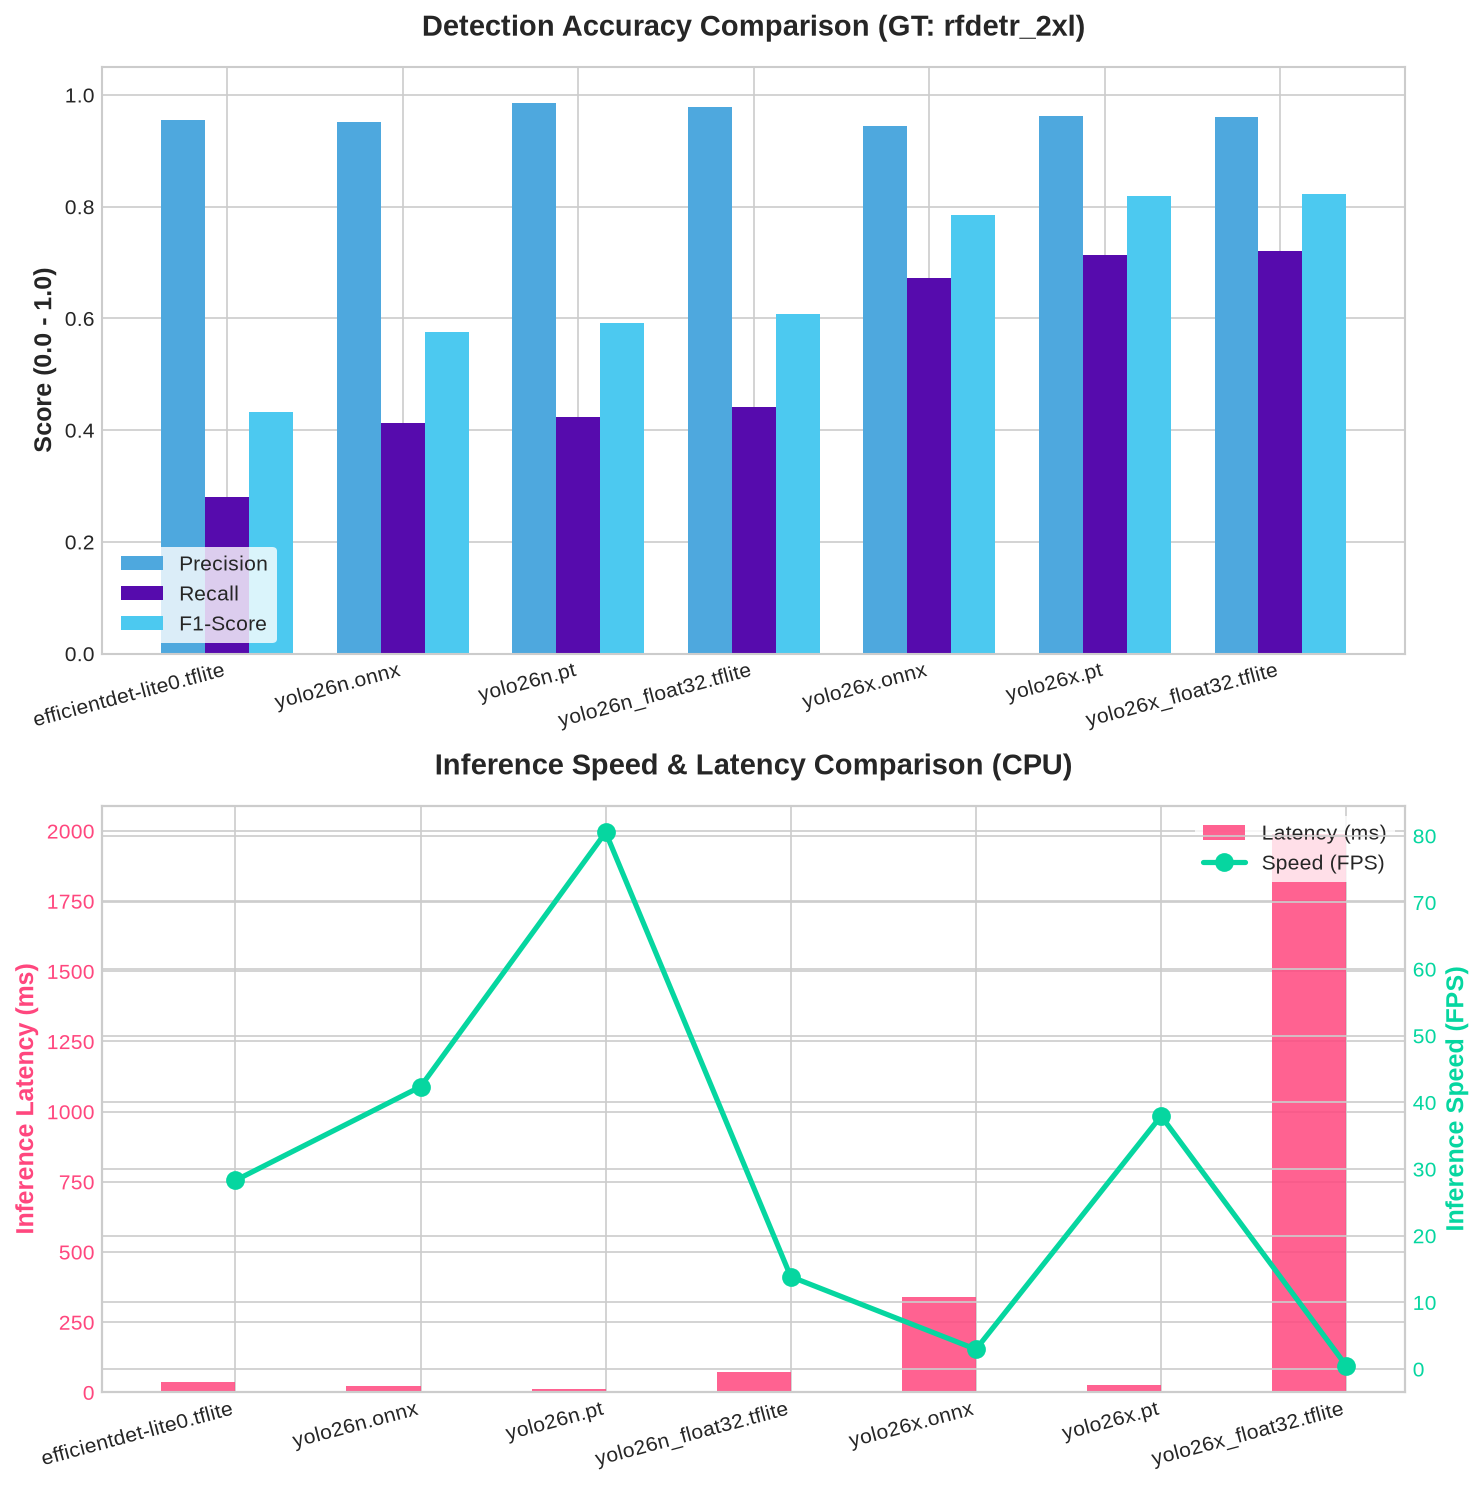
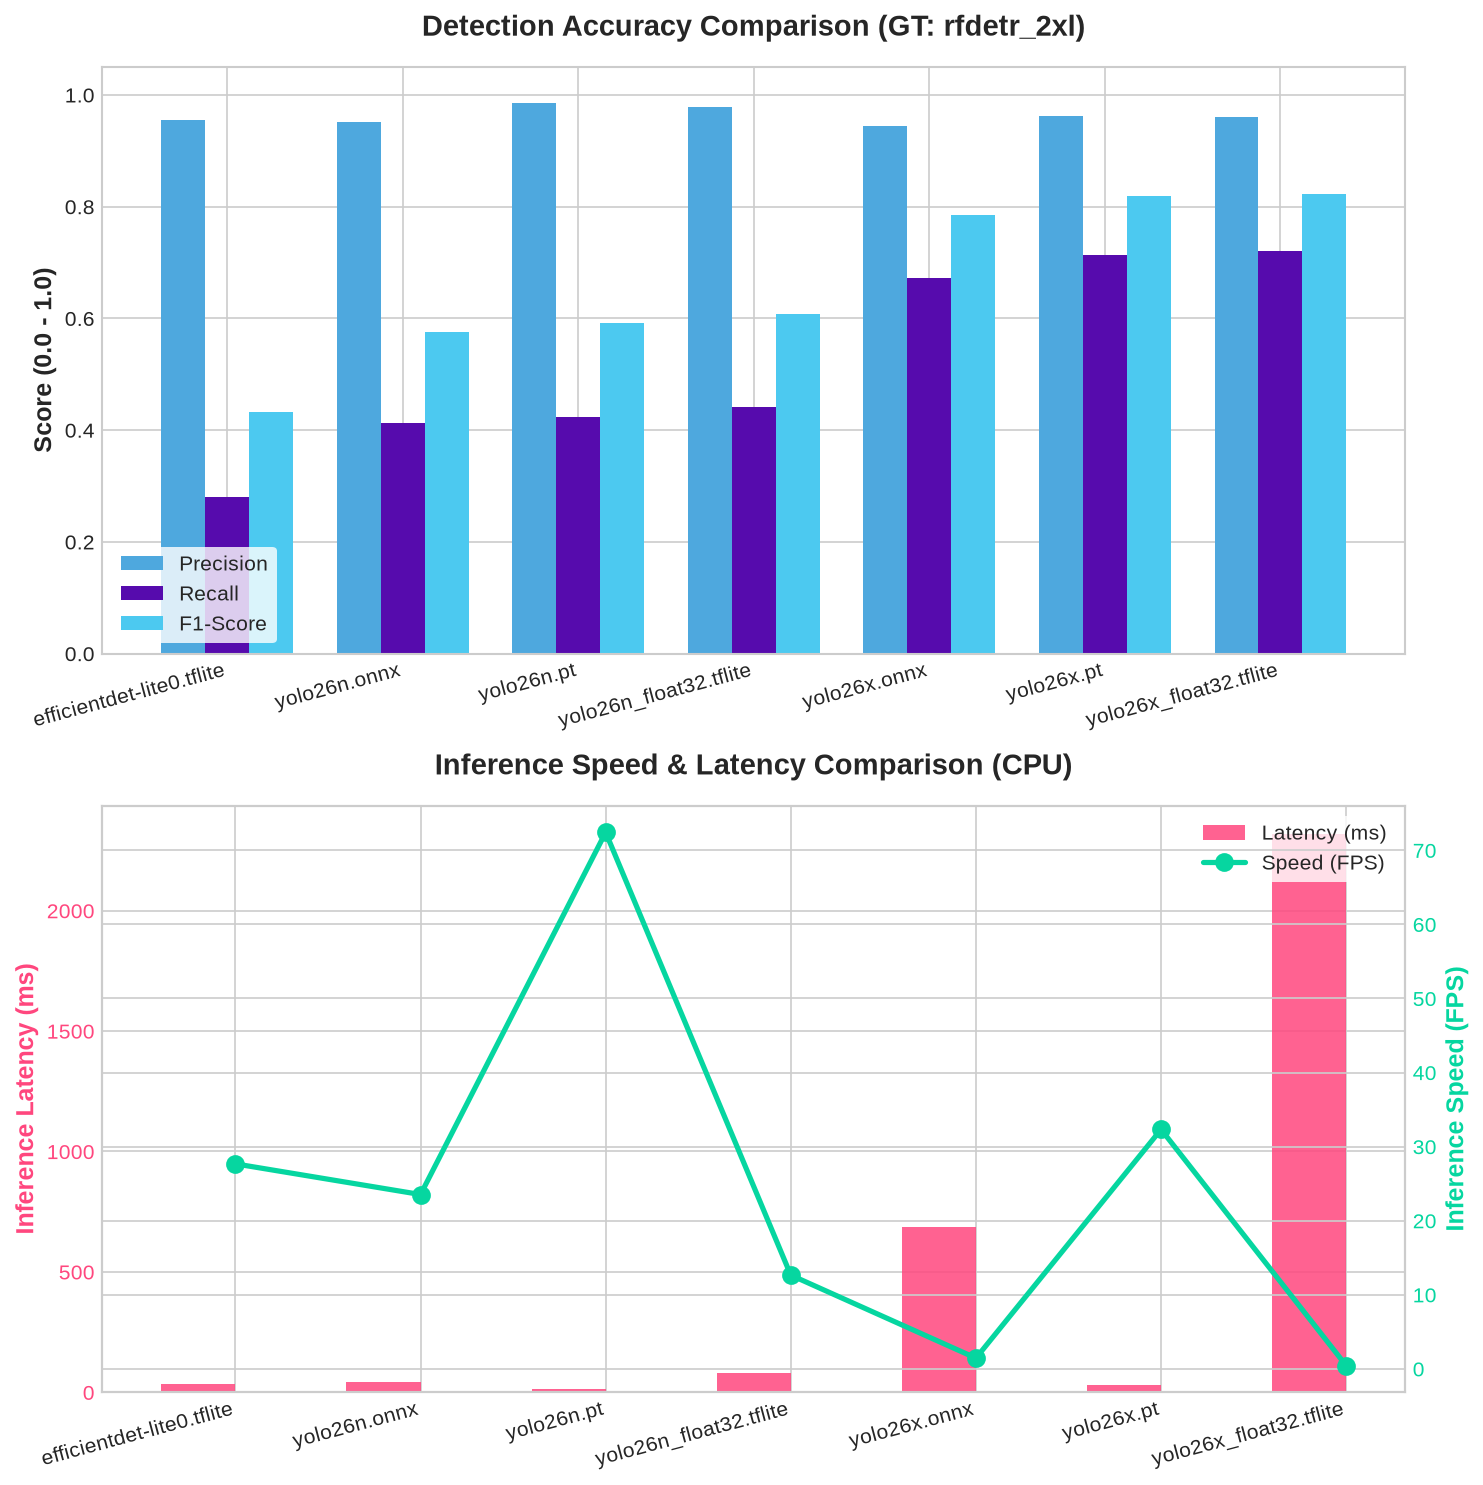
Add reference model (RF-DETR) latency to benchmark results

diff --git a/tools/benchmark.py b/tools/benchmark.py
@@ -349,7 +349,8 @@ def main():
     # ── Process video ─────────────────────────────────────────────────
     import time
     inference_times = []
-    
+    ref_inference_times = []
+
     cap = cv2.VideoCapture(args.video)
     fps = cap.get(cv2.CAP_PROP_FPS)
     total_frames = int(cap.get(cv2.CAP_PROP_FRAME_COUNT))
@@ -381,12 +382,14 @@ def main():
             online_dets = run_mediapipe(frame_rgb, online_detector, timestamp_ms)
         inference_times.append(time.perf_counter() - t0)
 
+        t_ref0 = time.perf_counter()
         if is_rfdetr_ref:
             gt_dets = run_rfdetr(frame_bgr, ref_model, conf=args.score)
         elif is_onnx_ref:
             gt_dets = run_onnx(frame_bgr, ref_model, conf=args.score)
         else:
             gt_dets = run_yolo(frame_bgr, ref_model, conf=args.score)
+        ref_inference_times.append(time.perf_counter() - t_ref0)
 
         m = match_frame(online_dets, gt_dets, args.iou)
         total_tp += m.tp
@@ -414,6 +417,9 @@ def main():
     mean_latency_ms = mean_latency * 1000
     throughput_fps = 1.0 / mean_latency if mean_latency > 0 else 0
 
+    mean_ref_latency = np.mean(ref_inference_times) if ref_inference_times else 0
+    mean_ref_latency_ms = mean_ref_latency * 1000
+
     print()
     print("═══════════════════════════════════════")
     print("  Offline Detector Benchmark Report")
@@ -432,6 +438,7 @@ def main():
     print(f"  Recall:           {recall:.4f}")
     print(f"  F1-Score:         {f1:.4f}")
     print(f"  Avg Latency:      {mean_latency_ms:.2f} ms")
+    print(f"  Ref Latency:      {mean_ref_latency_ms:.2f} ms")
     print(f"  FPS:              {throughput_fps:.2f}")
     print("═══════════════════════════════════════")
 

diff --git a/tools/run_all_benchmarks.py b/tools/run_all_benchmarks.py
@@ -39,6 +39,7 @@ def run_benchmark(video_path, model_path, gt_model_path, skip=1):
     recall = float(re.search(r"Recall:\s+([\d.]+)", stdout).group(1))
     f1 = float(re.search(r"F1-Score:\s+([\d.]+)", stdout).group(1))
     latency = float(re.search(r"Avg Latency:\s+([\d.]+)\s+ms", stdout).group(1))
+    ref_latency = float(re.search(r"Ref Latency:\s+([\d.]+)\s+ms", stdout).group(1))
     fps = float(re.search(r"FPS:\s+([\d.]+)", stdout).group(1))
     
     return {
@@ -50,6 +51,7 @@ def run_benchmark(video_path, model_path, gt_model_path, skip=1):
         "Recall": recall,
         "F1-Score": f1,
         "Latency (ms)": latency,
+        "Ref Latency (ms)": ref_latency,
         "Speed (FPS)": fps
     }
 

diff --git a/README.md b/README.md
@@ -43,6 +43,12 @@ Over time, those events can turn into points, streaks, and friendly competition.
 - [ ] **Model Validation**: Benchmark additional models and validate performance across a wider variety of test videos (different lighting, weather, etc.).
 - [ ] **Emulator Testing**: Add a script or guide to simulate moving GPS locations in the emulator for better field-testing.
 
+## Android Emulator
+to run emulator with specific video:
+```
+~/Android/Sdk/emulator/emulator -avd Medium_Phone -camera-back videofile:/path/to/example_video.mp4
+```
+
 ## Benchmarks
 
 Below is the benchmarking result of the object detection models available in the app's assets folder (`app/src/main/assets`). 
@@ -51,21 +57,16 @@ The models were evaluated frame-by-frame on a test video against the largest gro
 
 ### Results Table
 
-| Model                     |   TP |   FP |   FN |   Precision |   Recall |   F1-Score |   Latency (ms) |   Speed (FPS) |
-|:--------------------------|-----:|-----:|-----:|------------:|---------:|-----------:|---------------:|--------------:|
-| efficientdet-lite0.tflite |  170 |    8 |  438 |      0.9551 |   0.2796 |     0.4326 |          35.35 |         28.29 |
-| yolo26n.onnx              |  251 |   13 |  357 |      0.9508 |   0.4128 |     0.5757 |          23.61 |         42.35 |
-| yolo26n.pt                |  257 |    4 |  351 |      0.9847 |   0.4227 |     0.5915 |          12.42 |         80.51 |
-| yolo26n_float32.tflite    |  268 |    6 |  340 |      0.9781 |   0.4408 |     0.6077 |          72.22 |         13.85 |
-| yolo26x.onnx              |  409 |   24 |  199 |      0.9446 |   0.6727 |     0.7858 |         339.26 |          2.95 |
-| yolo26x.pt                |  434 |   17 |  174 |      0.9623 |   0.7138 |     0.8196 |          26.34 |         37.96 |
-| yolo26x_float32.tflite    |  438 |   18 |  170 |      0.9605 |   0.7204 |     0.8233 |        1990.52 |          0.5  |
+| Model                     |   TP |   FP |   FN |   Precision |   Recall |   F1-Score |   Latency (ms) |   Ref Latency (ms) |   Speed (FPS) |
+|:--------------------------|-----:|-----:|-----:|------------:|---------:|-----------:|---------------:|-------------------:|--------------:|
+| efficientdet-lite0.tflite |  170 |    8 |  438 |      0.9551 |   0.2796 |     0.4326 |          36.14 |              89.04 |         27.67 |
+| yolo26n.onnx              |  251 |   13 |  357 |      0.9508 |   0.4128 |     0.5757 |          42.49 |              90.46 |         23.53 |
+| yolo26n.pt                |  257 |    4 |  351 |      0.9847 |   0.4227 |     0.5915 |          13.81 |              90.08 |         72.42 |
+| yolo26n_float32.tflite    |  268 |    6 |  340 |      0.9781 |   0.4408 |     0.6077 |          79.05 |              91.44 |         12.65 |
+| yolo26x.onnx              |  409 |   24 |  199 |      0.9446 |   0.6727 |     0.7858 |         687.83 |              88.61 |          1.45 |
+| yolo26x.pt                |  434 |   17 |  174 |      0.9623 |   0.7138 |     0.8196 |          30.94 |              90.08 |         32.32 |
+| yolo26x_float32.tflite    |  438 |   18 |  170 |      0.9605 |   0.7204 |     0.8233 |        2319.84 |              89.5  |          0.43 |
 
 ### Performance Visualization
 
 ![Detection Model Benchmark Visualization](docs/benchmark_plot.png)
-
-to run emulator with specific video:
-```
-~/Android/Sdk/emulator/emulator -avd Medium_Phone -camera-back videofile:/home/yuval/Downloads/IMG_4376.mp4
-```